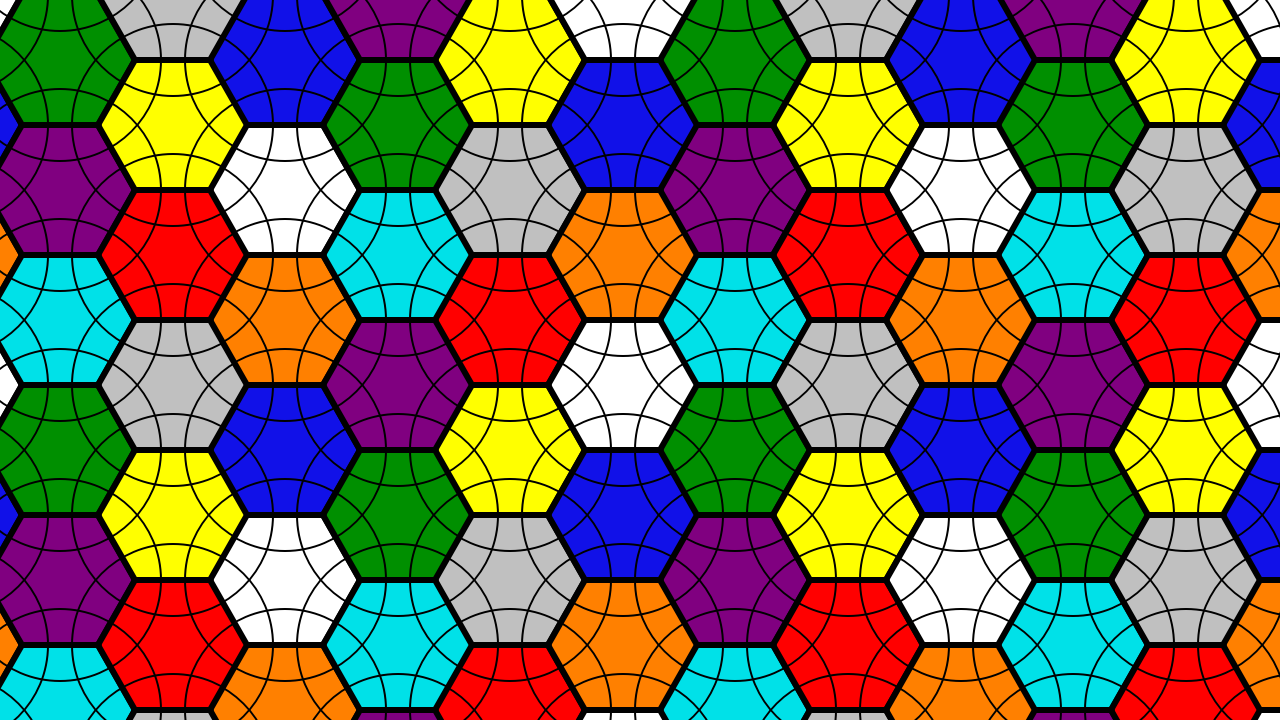
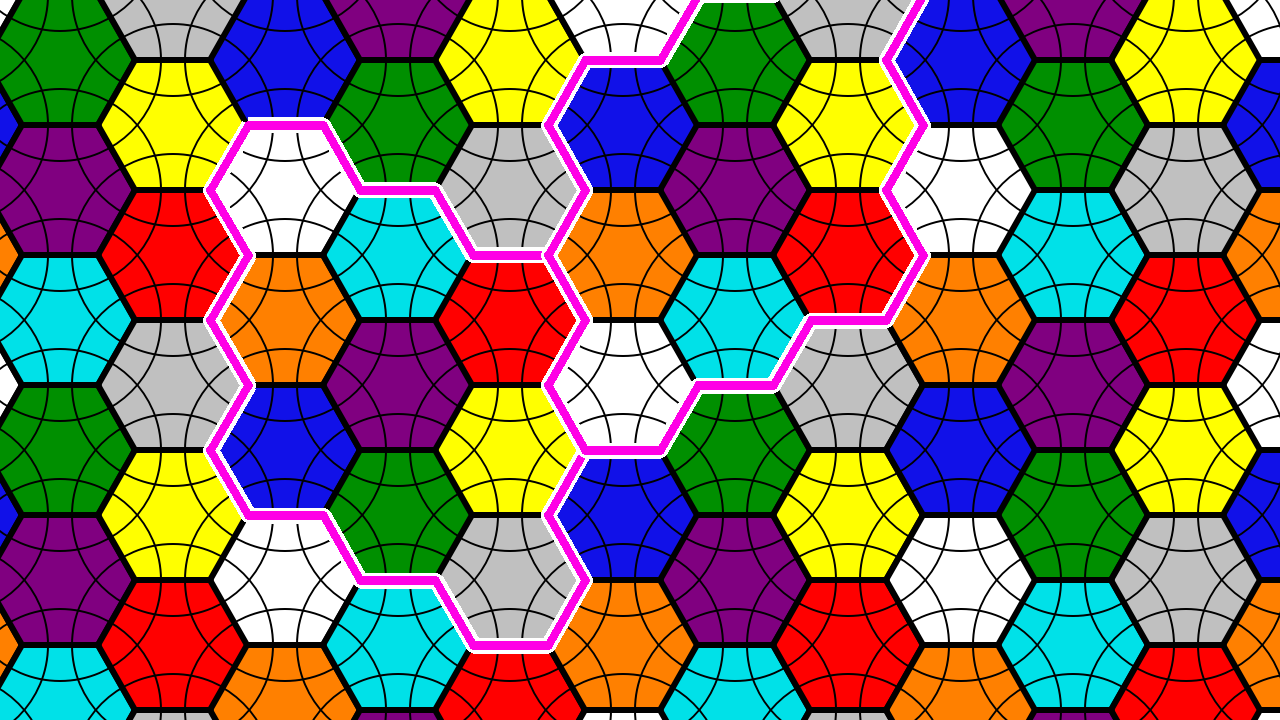
Update readme: highlight common blocks in Klein bottle mode

diff --git a/README.md b/README.md
@@ -77,6 +77,10 @@ solution must match both the colors and the corner orientation.
 | --- | --- |
 | ![Solved Klein bottle mode board](assets/screenshots/klein-bottle-solved.png) | ![Scrambled Klein bottle mode board](assets/screenshots/klein-bottle-scrambled.png) |
 
+The two highlighted 3-by-3 regions in the solved-board screenshot represent
+the same block; the right-hand copy is reflected vertically relative to the
+left-hand copy.
+
 Select **Puzzle → Mode → Torus mode** or
 **Puzzle → Mode → Klein bottle mode** to switch modes.
 Changing modes resets the board. If a scored game is active, MagicTile asks for
